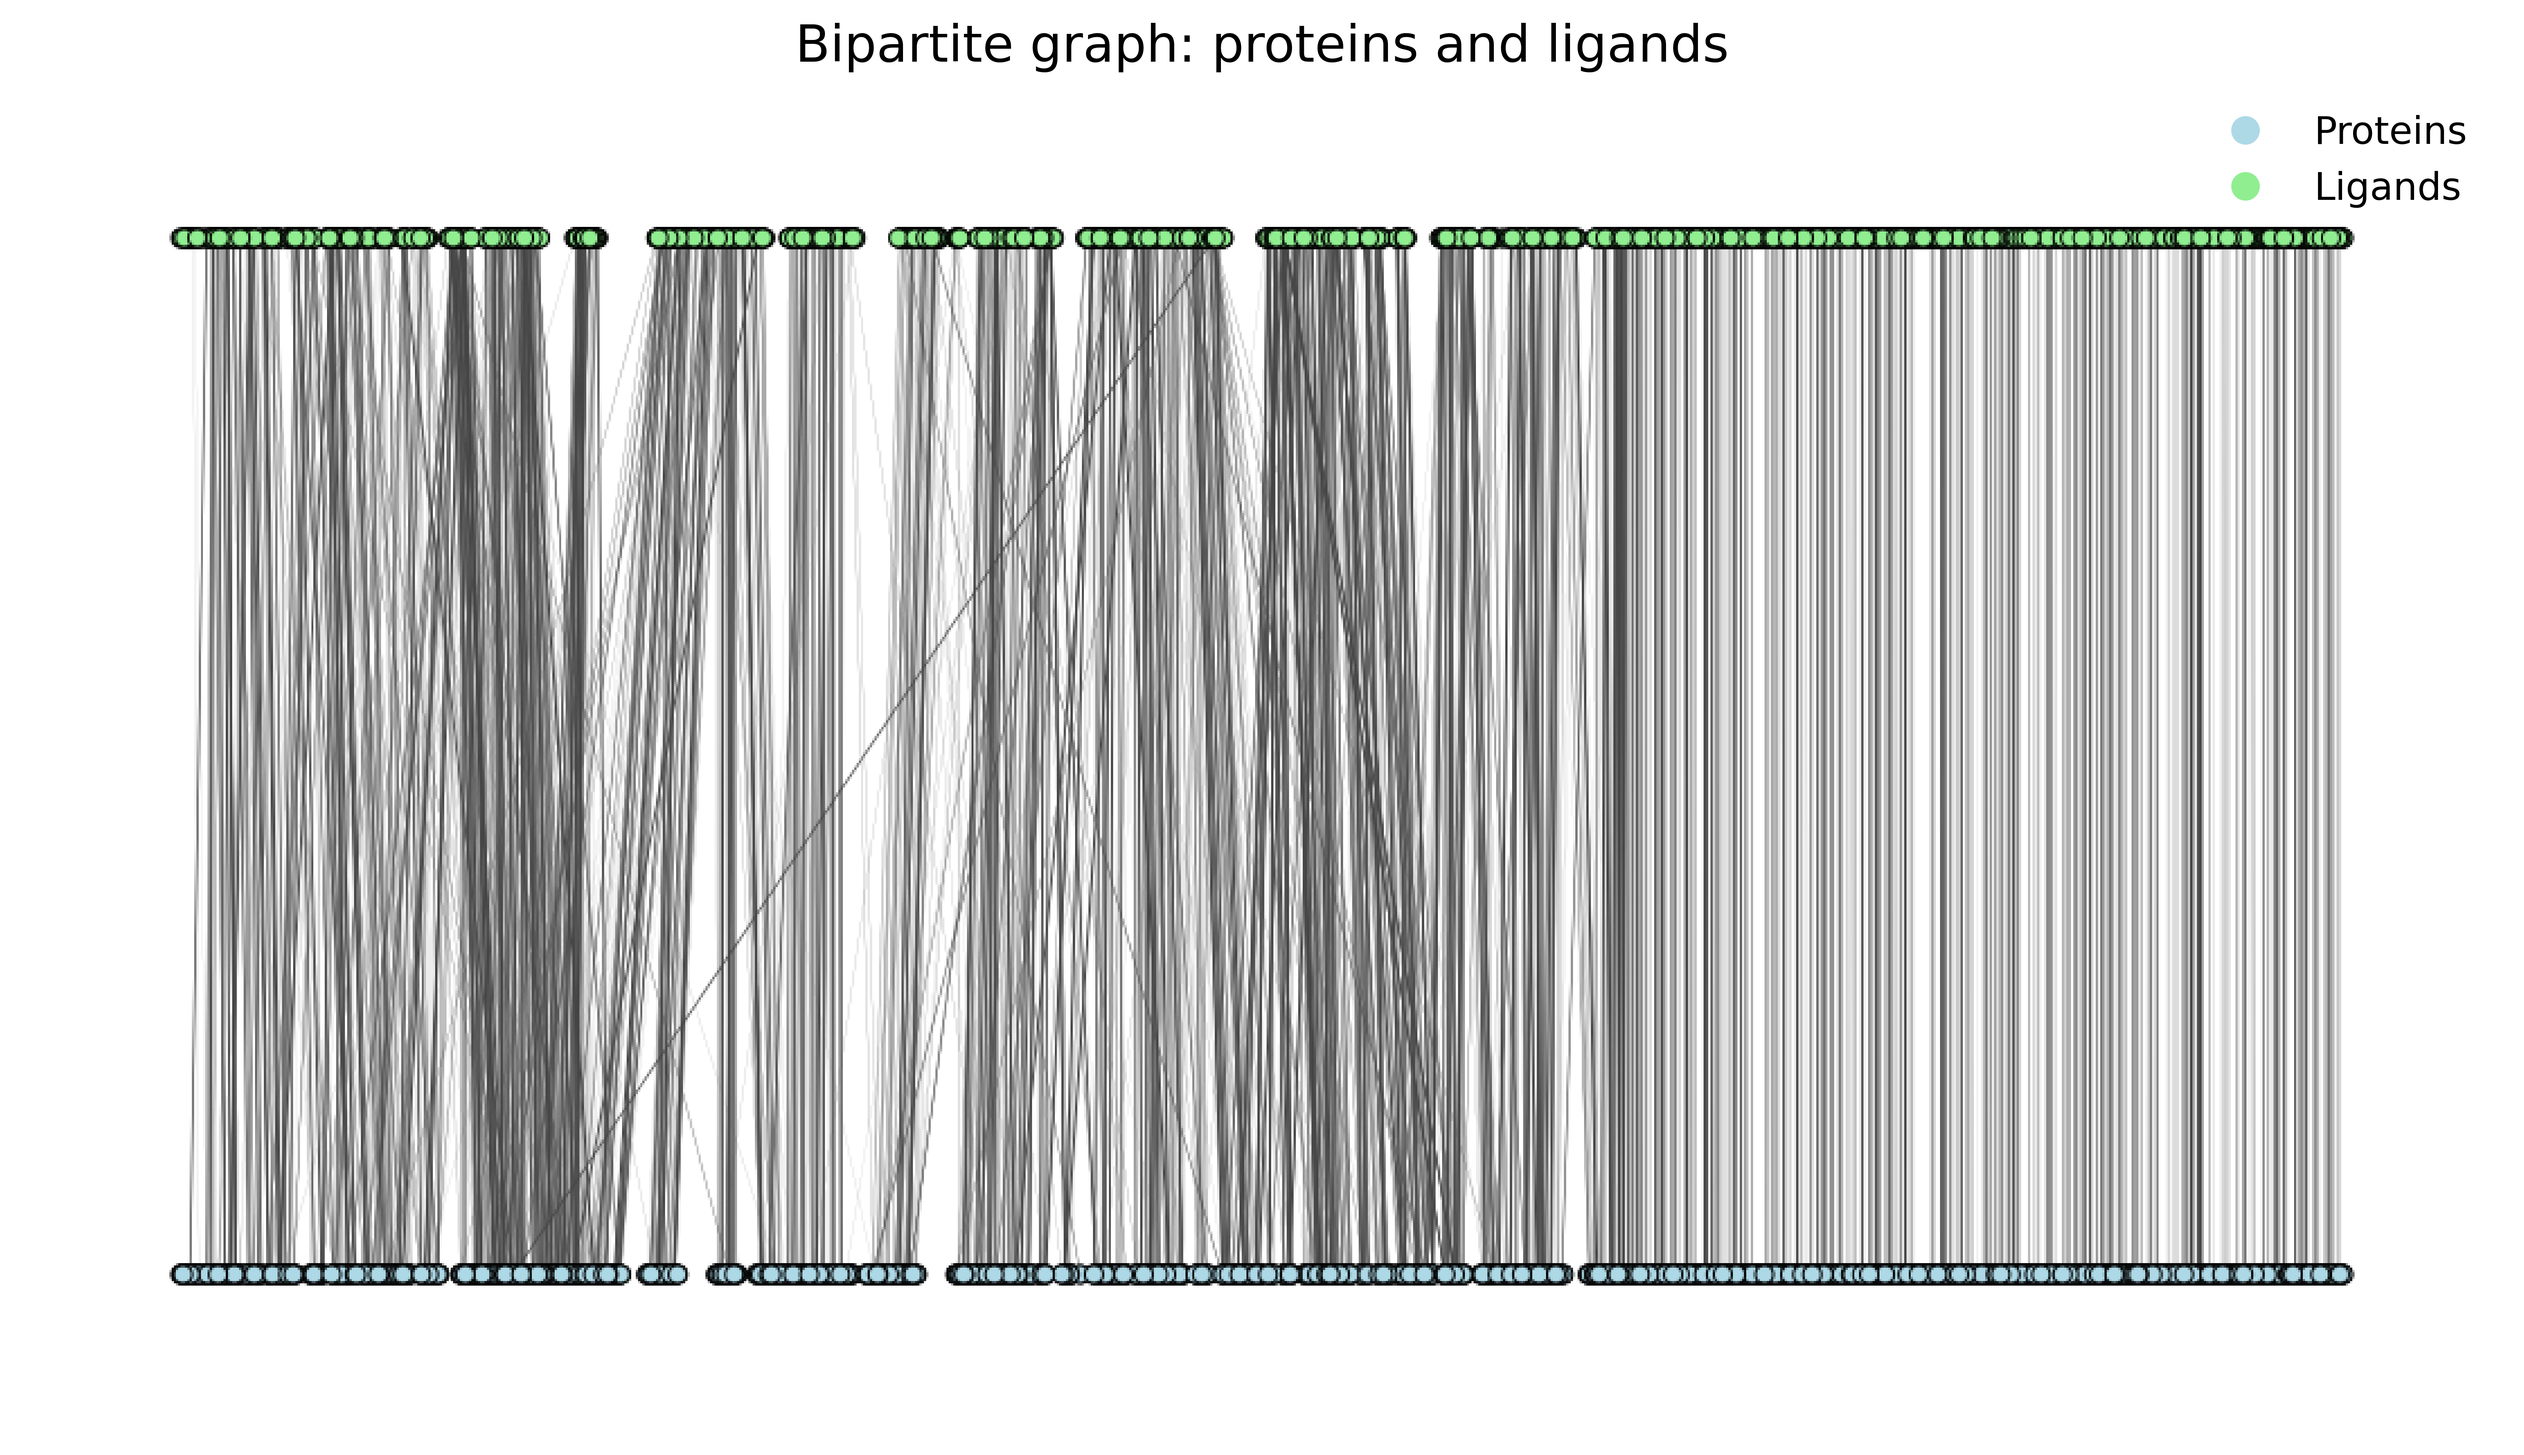
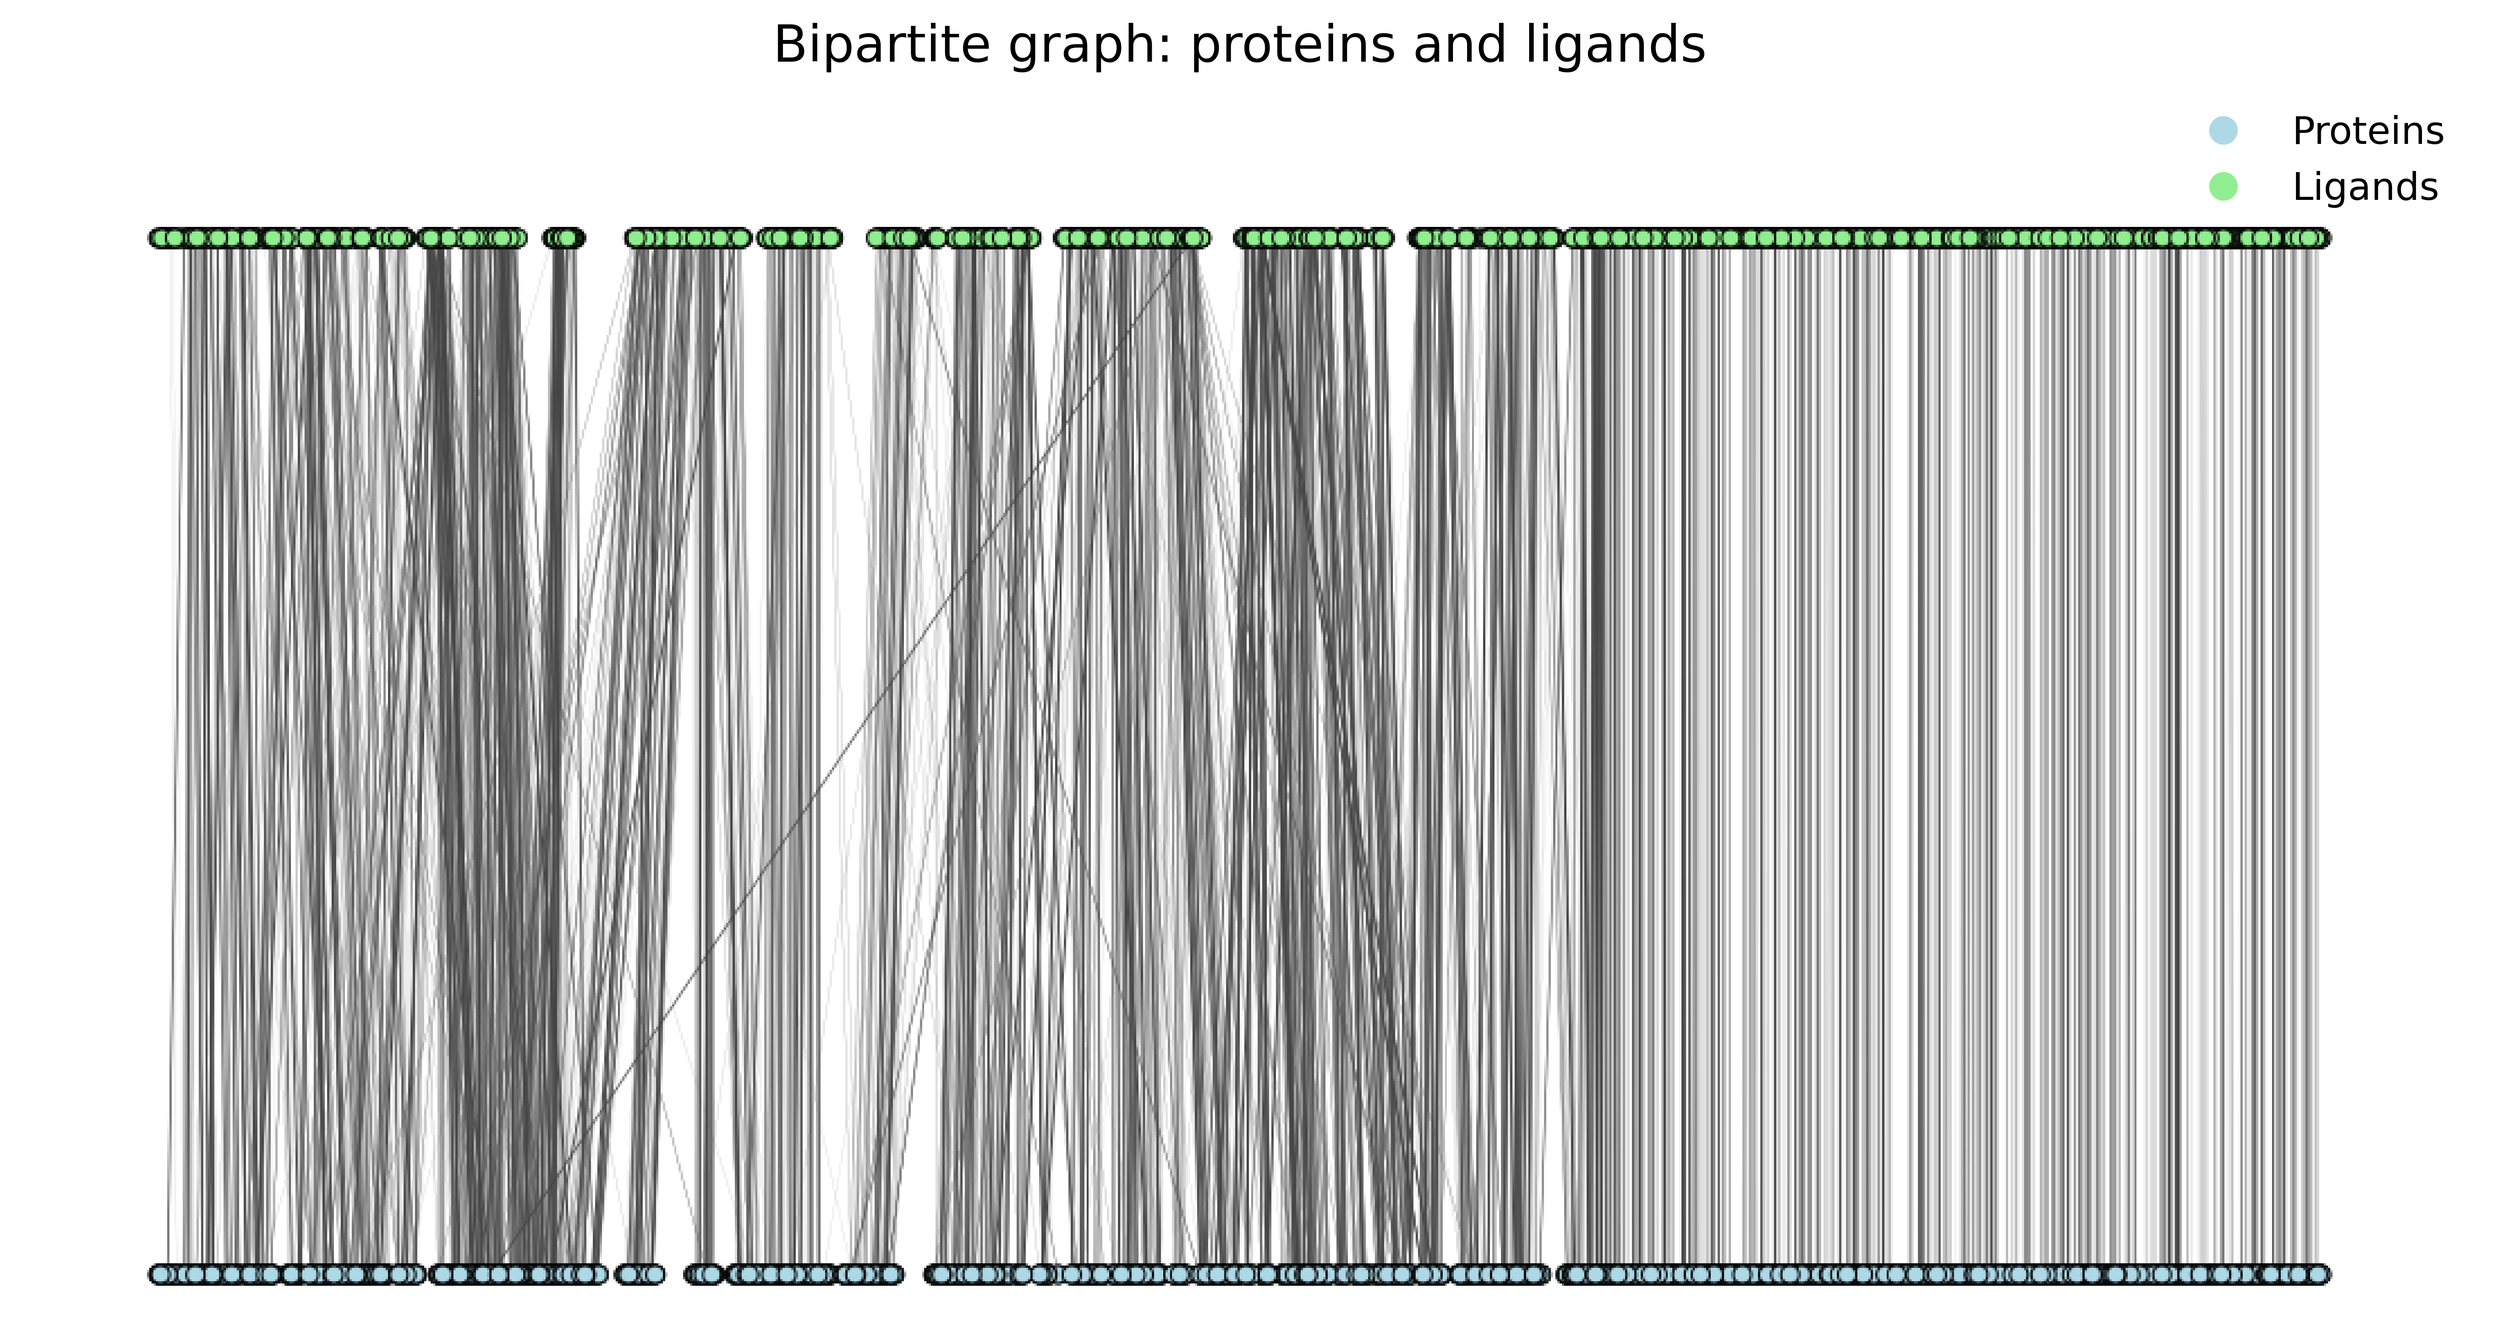
cropping bipartite plot

diff --git a/index.html b/index.html
@@ -12,12 +12,7 @@ title: Research on Protein Mutations and Ligand Binding
 
   <section id="introduction">
     <h2>Introduction</h2>
-    <ul>
-      <li>How do mutations in reference-mutant protein groups affect binding affinities with specific ligands?</li>
-      <li>Can we identify key mutation sites that alter binding affinity?</li>
-      <li>Can we predict the coarse pattern of interaction of an unseen protein using its learned sequence embedding and ligand clustering?</li>
-      <li>Can a low-dimensional space capture meaningful protein-ligand behaviors? E.g., protein embeddings cluster according to their similarity and clusters can be labeled according to their binding affinity with ligand groups.</li>
-    </ul>
+    <p> TO BE DONEEE</p>
   </section>
 
    <!-- Vertical Line-->
